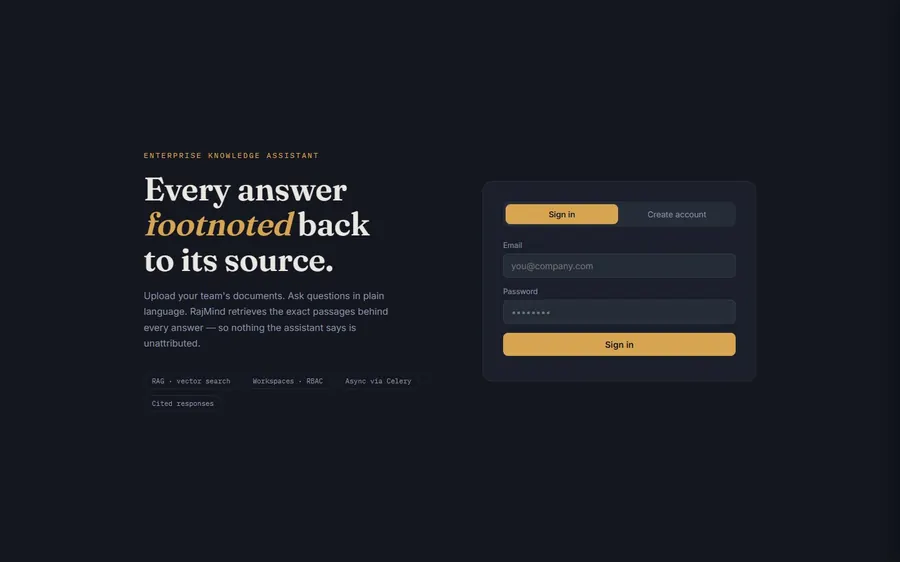
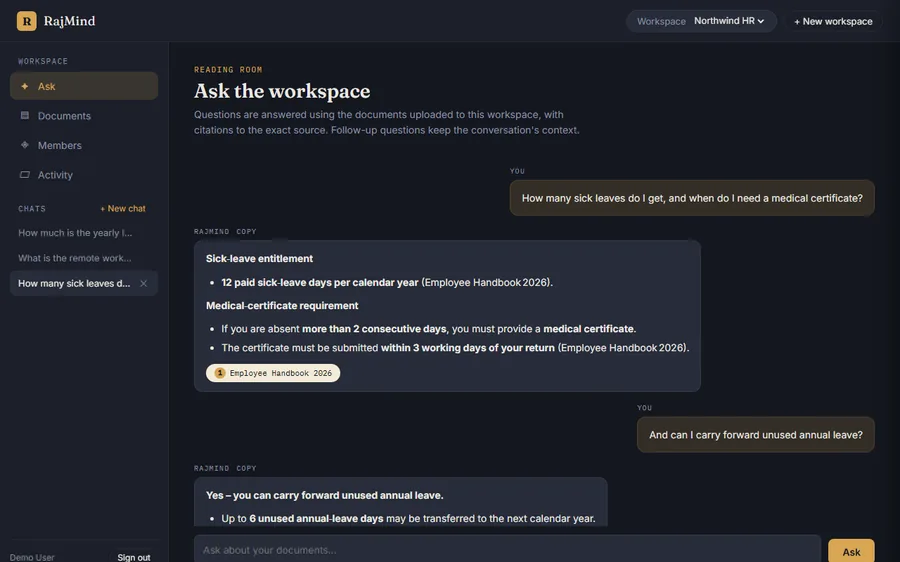
RajMind card: new screenshot of a cited answer

diff --git a/index.html b/index.html
@@ -214,7 +214,7 @@
             </article>
 
             <article class="build-card reveal">
-              <img src="assets/images/rajmind.webp" alt="RajMind sign-in page" />
+              <img src="assets/images/rajmind.webp" alt="RajMind answering a question with a cited source" />
               <em class="status live">Live demo</em>
               <span>Django / PostgreSQL / Gemini RAG / Docker</span>
               <h3>RajMind</h3>
